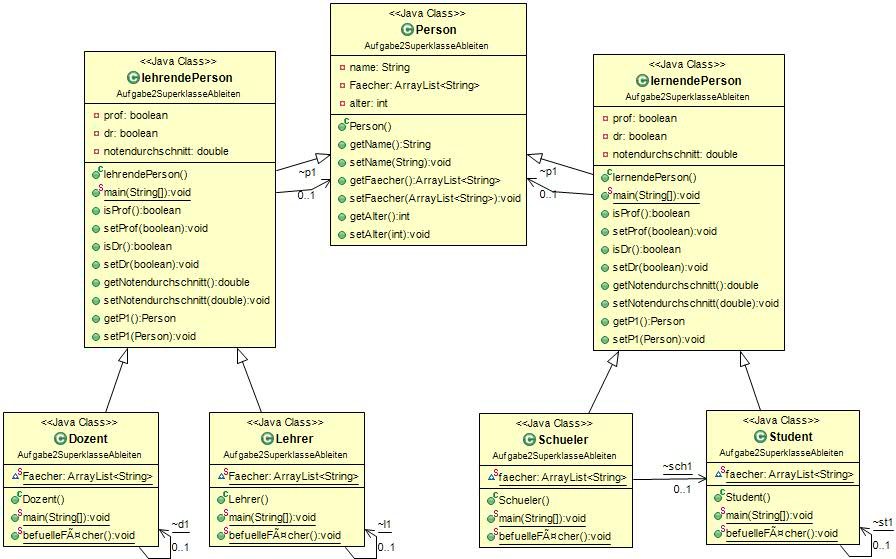
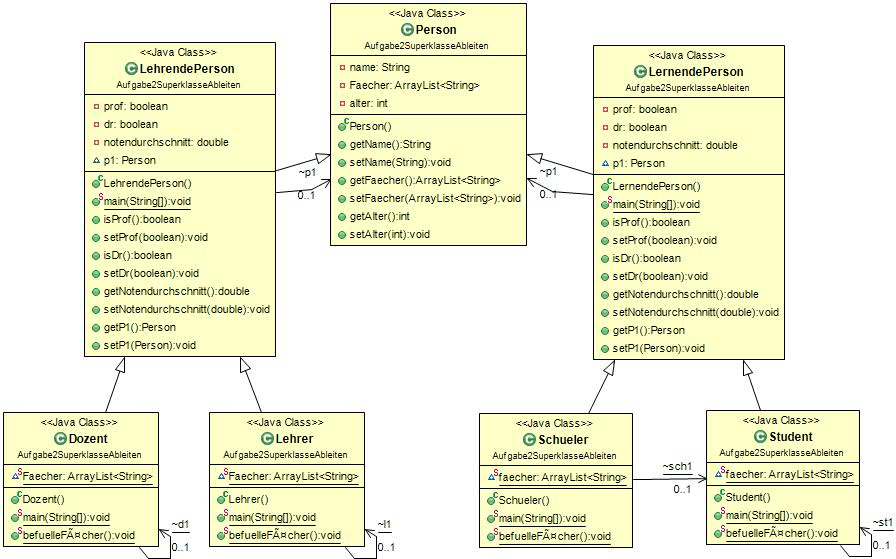
Update Klassennamen CamelCode

Changed region(s): [[0.6562, 0.0608, 0.875, 0.6691], [0.0938, 0.0608, 0.3125, 0.6691]]

diff --git a/GdP-Testate/Testat4_Marie_Felix_Timo/Aufgabe2SuperklasseAbleiten/Schueler.java b/GdP-Testate/Testat4_Marie_Felix_Timo/Aufgabe2SuperklasseAbleiten/Schueler.java
@@ -8,7 +8,7 @@ import java.util.ArrayList;
  *
  */
 
-public class Schueler extends lernendePerson {
+public class Schueler extends LernendePerson {
 	
 	static Student sch1 = new Student();
 	static ArrayList<String> faecher = new ArrayList<String>();

diff --git a/GdP-Testate/Testat4_Marie_Felix_Timo/Aufgabe2SuperklasseAbleiten/Student.java b/GdP-Testate/Testat4_Marie_Felix_Timo/Aufgabe2SuperklasseAbleiten/Student.java
@@ -8,7 +8,7 @@ import java.util.ArrayList;
  *
  */
 
-public class Student extends lernendePerson {
+public class Student extends LernendePerson {
 	
 	static Student st1 = new Student();
 	static ArrayList<String> faecher = new ArrayList<String>();

diff --git a/GdP-Testate/Testat4_Marie_Felix_Timo/Aufgabe2SuperklasseAbleiten/Dozent.java b/GdP-Testate/Testat4_Marie_Felix_Timo/Aufgabe2SuperklasseAbleiten/Dozent.java
@@ -8,7 +8,7 @@ import java.util.ArrayList;
  *
  */
 
-public class Dozent extends lehrendePerson {
+public class Dozent extends LehrendePerson {
 	
 	static Dozent d1 = new Dozent();
 	static ArrayList<String> Faecher = new ArrayList<String>();

diff --git a/GdP-Testate/Testat4_Marie_Felix_Timo/Aufgabe2SuperklasseAbleiten/Lehrer.java b/GdP-Testate/Testat4_Marie_Felix_Timo/Aufgabe2SuperklasseAbleiten/Lehrer.java
@@ -8,7 +8,7 @@ import java.util.ArrayList;
  *
  */
 
-public class Lehrer extends lehrendePerson {
+public class Lehrer extends LehrendePerson {
 
 	static Lehrer l1 = new Lehrer();
 	static ArrayList<String> Faecher = new ArrayList<String>();

diff --git a/GdP-Testate/Testat4_Marie_Felix_Timo/Aufgabe2SuperklasseAbleiten/LehrendePerson.java b/GdP-Testate/Testat4_Marie_Felix_Timo/Aufgabe2SuperklasseAbleiten/LehrendePerson.java
@@ -6,7 +6,7 @@ package Aufgabe2SuperklasseAbleiten;
  *
  */
 
-public class lernendePerson extends Person{
+public class LehrendePerson extends Person{
 	
 	private boolean prof;
 	private boolean dr;

diff --git a/GdP-Testate/Testat4_Marie_Felix_Timo/Aufgabe2SuperklasseAbleiten/LernendePerson.java b/GdP-Testate/Testat4_Marie_Felix_Timo/Aufgabe2SuperklasseAbleiten/LernendePerson.java
@@ -6,7 +6,7 @@ package Aufgabe2SuperklasseAbleiten;
  *
  */
 
-public class lehrendePerson extends Person{
+public class LernendePerson extends Person{
 	
 	private boolean prof;
 	private boolean dr;
